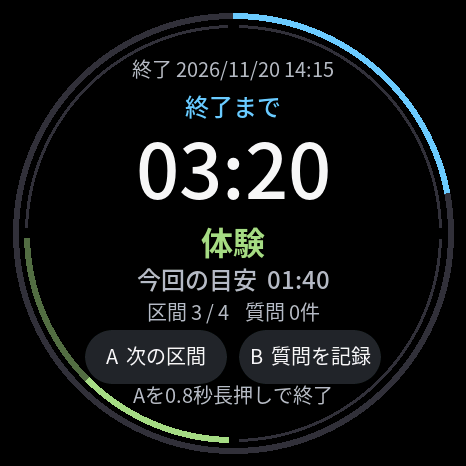
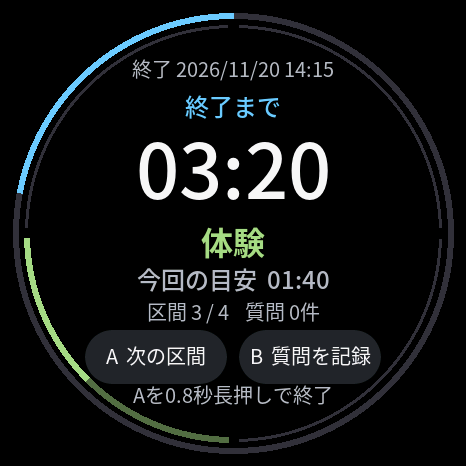
Count down both timer rings clockwise

diff --git a/tests/render.cpp b/tests/render.cpp
@@ -104,24 +104,39 @@ void checkLabels(lgfx::LGFX_Sprite& canvas, const View& view) {
   }
 }
 
-void checkSegmentCountdown(lgfx::LGFX_Sprite& canvas) {
+void checkClockwiseCountdown(lgfx::LGFX_Sprite& canvas) {
   View view;
-  view.remainingPercent = 50;
+  view.remainingPercent = 100;
   view.segmentCount = 2; // The first segment occupies the right semicircle.
   drawWatchView(canvas, view);
+  const auto overall = canvas.readPixel(450, 233);
+  if (canvas.readPixel(16, 233) != overall)
+    throw std::runtime_error("Overall ring should start full");
   const auto full = canvas.readPixel(379, 87);
   const auto inactive = canvas.readPixel(87, 87);
   if (full == inactive || full != canvas.readPixel(379, 379))
     throw std::runtime_error("New segment is not full");
+  view.remainingPercent = 0;
   view.segmentRemainingFraction = 0;
   drawWatchView(canvas, view);
+  const auto track = canvas.readPixel(450, 233);
+  if (track == overall || canvas.readPixel(16, 233) != track)
+    throw std::runtime_error("Expired overall ring still shows time");
   const auto empty = canvas.readPixel(379, 87);
   if (empty == full || empty == inactive || empty != canvas.readPixel(379, 379))
     throw std::runtime_error("Expired segment lost its position or still shows time");
+  view.remainingPercent = 50;
   view.segmentRemainingFraction = 0.5f;
   drawWatchView(canvas, view);
-  if (canvas.readPixel(379, 87) != full || canvas.readPixel(379, 379) != empty)
-    throw std::runtime_error("Half of the current segment should be filled");
+  if (canvas.readPixel(450, 233) != track || canvas.readPixel(16, 233) != overall)
+    throw std::runtime_error("Overall ring should empty clockwise from twelve");
+  if (canvas.readPixel(379, 87) != empty || canvas.readPixel(379, 379) != full)
+    throw std::runtime_error("First segment should empty clockwise from twelve");
+  view.segmentIndex = 1;
+  drawWatchView(canvas, view);
+  if (canvas.readPixel(379, 379) != inactive ||
+      canvas.readPixel(87, 379) != empty || canvas.readPixel(87, 87) != full)
+    throw std::runtime_error("Second segment should empty clockwise from six");
 }
 
 void checkRingClearance(lgfx::LGFX_Sprite& canvas, View rings) {
@@ -141,7 +156,7 @@ int main(int argc, char** argv) {
   lgfx::LGFX_Sprite canvas;
   canvas.setColorDepth(16);
   if (!canvas.createSprite(466,466)) return 1;
-  checkSegmentCountdown(canvas);
+  checkClockwiseCountdown(canvas);
   for (int i = 1; i < argc; ++i) {
     const std::string stem = argv[i];
     const View view = readView(stem+".tsv");

diff --git a/StopWatchTourGuide/src/WatchUi.cpp b/StopWatchTourGuide/src/WatchUi.cpp
@@ -49,10 +49,11 @@ void drawSegmentRing(lgfx::LGFXBase& canvas, const View& view) {
   constexpr float gapAngle = gapRadius / (radius * radiansPerDegree);
   const float start = -90.0f + view.segmentIndex * step + gapAngle;
   const float span = step - 2 * gapAngle;
-  canvas.fillArc(233, 233, radius+2, radius-3, start, start+span, color(Ink::SegmentTrack));
+  const float end = start + span;
+  canvas.fillArc(233, 233, radius+2, radius-3, start, end, color(Ink::SegmentTrack));
   if (view.segmentRemainingFraction > 0) {
-    canvas.fillArc(233, 233, radius+2, radius-3, start,
-                   start + span * view.segmentRemainingFraction, color(Ink::Segment));
+    canvas.fillArc(233, 233, radius+2, radius-3,
+                   start + span * (1.0f - view.segmentRemainingFraction), end, color(Ink::Segment));
   }
 }
 
@@ -104,10 +105,11 @@ void drawWatchView(lgfx::LGFXBase& canvas, const View& view) {
   canvas.fillScreen(color(Ink::Black));
   if (view.remainingPercent >= 0) {
     constexpr int radius = 220;
+    constexpr float end = 270.0f; // Twelve o'clock.
     canvas.fillArc(233, 233, radius, radius-5, 0, 360, color(Ink::Track));
     if (view.remainingPercent > 0)
-      canvas.fillArc(233, 233, radius, radius-5, -90,
-                     -90 + view.remainingPercent * 3.6f, color(view.ringInk));
+      canvas.fillArc(233, 233, radius, radius-5, end - view.remainingPercent * 3.6f,
+                     end, color(view.ringInk));
     drawSegmentRing(canvas, view);
   }
   for (const auto& box : view.boxes)

diff --git a/docs/usage.md b/docs/usage.md
@@ -41,7 +41,7 @@
 
 案内開始時と「次の区間」に進んだときに、終了までの残り時間を、これから案内する区間の標準時間に比例して配分します。たとえば15分の初期コースで、導入に3分かかったときは展示説明に6分28秒、導入を1分で終えたときは7分32秒を割り当てます。最後の区間では、終了までの残り時間をすべて使えます。
 
-外側のリングは案内全体の残り時間を示します。内側は12時の位置から時計回りに区間が並びます。現在の区間を示す黄緑の弧は、「今回の目安」に表示される残り時間に合わせて短くなります。持ち時間を過ぎると濃い緑の弧が区間の位置を示し、「目安超過」に超過時間が表示されます。終了時刻以降に次の区間に進んだ場合、その区間の持ち時間はゼロです。区間が一つのコースでは内側のリングを省きます。
+外側の青いリングは案内全体の残り時間を示し、12時の位置から時計回りに消えていきます。内側の区間も12時の位置から時計回りに並びます。「今回の目安」の残り時間が減ると、黄緑の弧がその区間の開始位置から時計回りに短くなります。持ち時間を過ぎると濃い緑の弧が区間の位置を示し、「目安超過」に超過時間が表示されます。終了時刻以降に次の区間に進んだ場合、その区間の持ち時間はゼロです。区間が一つのコースでは内側のリングを省きます。
 
 **黄緑の残り時間がゼロになると、短く3回振動します。** この合図は各区間で一度だけです。案内全体の予告や終了時刻の振動と重なる場合は、全体の合図を優先します。区間を進めるときは、Aを短押しするか「次の区間」をタップしてください。
 
